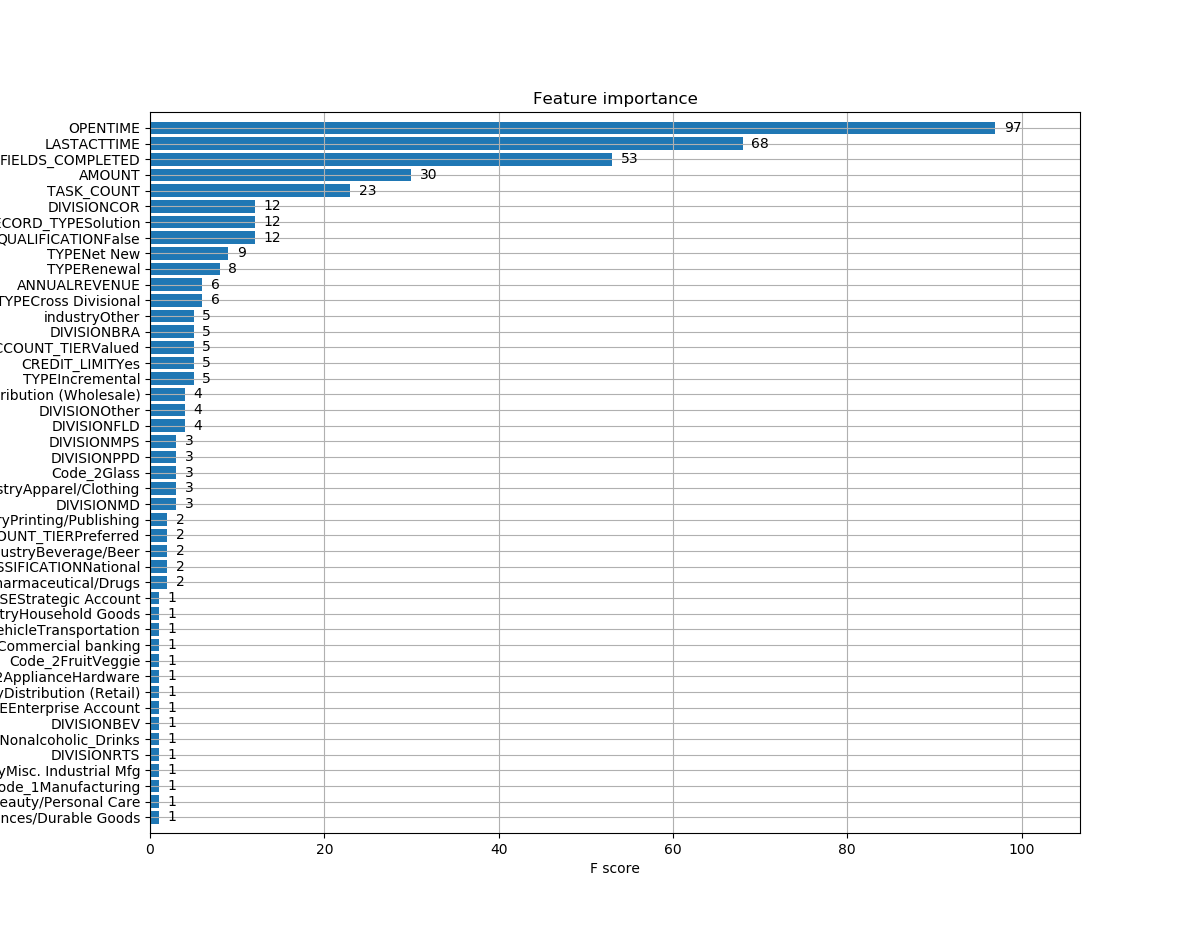
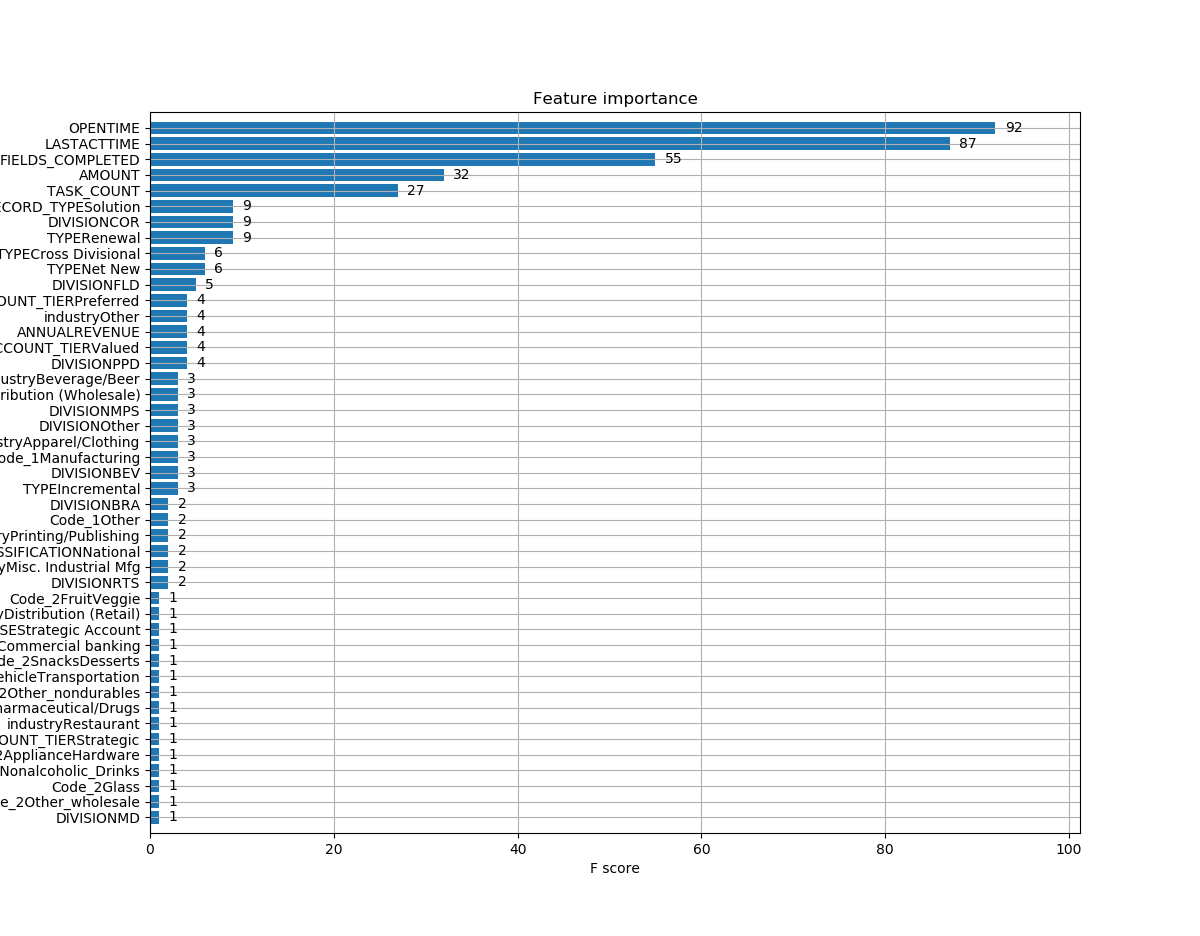
Tweaked stuff

diff --git a/decision tree & Xgboost models.py b/decision tree & Xgboost models.py
@@ -147,8 +147,8 @@ dummies_FLD_MARKET_SEGMENT__C.head()
 
 # New dataset with dummies
 X_with_dummies = pd.concat([X, 
-                             dummies_CREDIT_LIMIT_ESTABLISHED__C,
-                             dummies_QUALIFICATION_APPROVAL_NA,
+                            #  dummies_CREDIT_LIMIT_ESTABLISHED__C,
+                            #  dummies_QUALIFICATION_APPROVAL_NA,
                              dummies_Code_1, 
                              dummies_TYPE, 
                              dummies_CORE_RECORD_TYPE__C,
